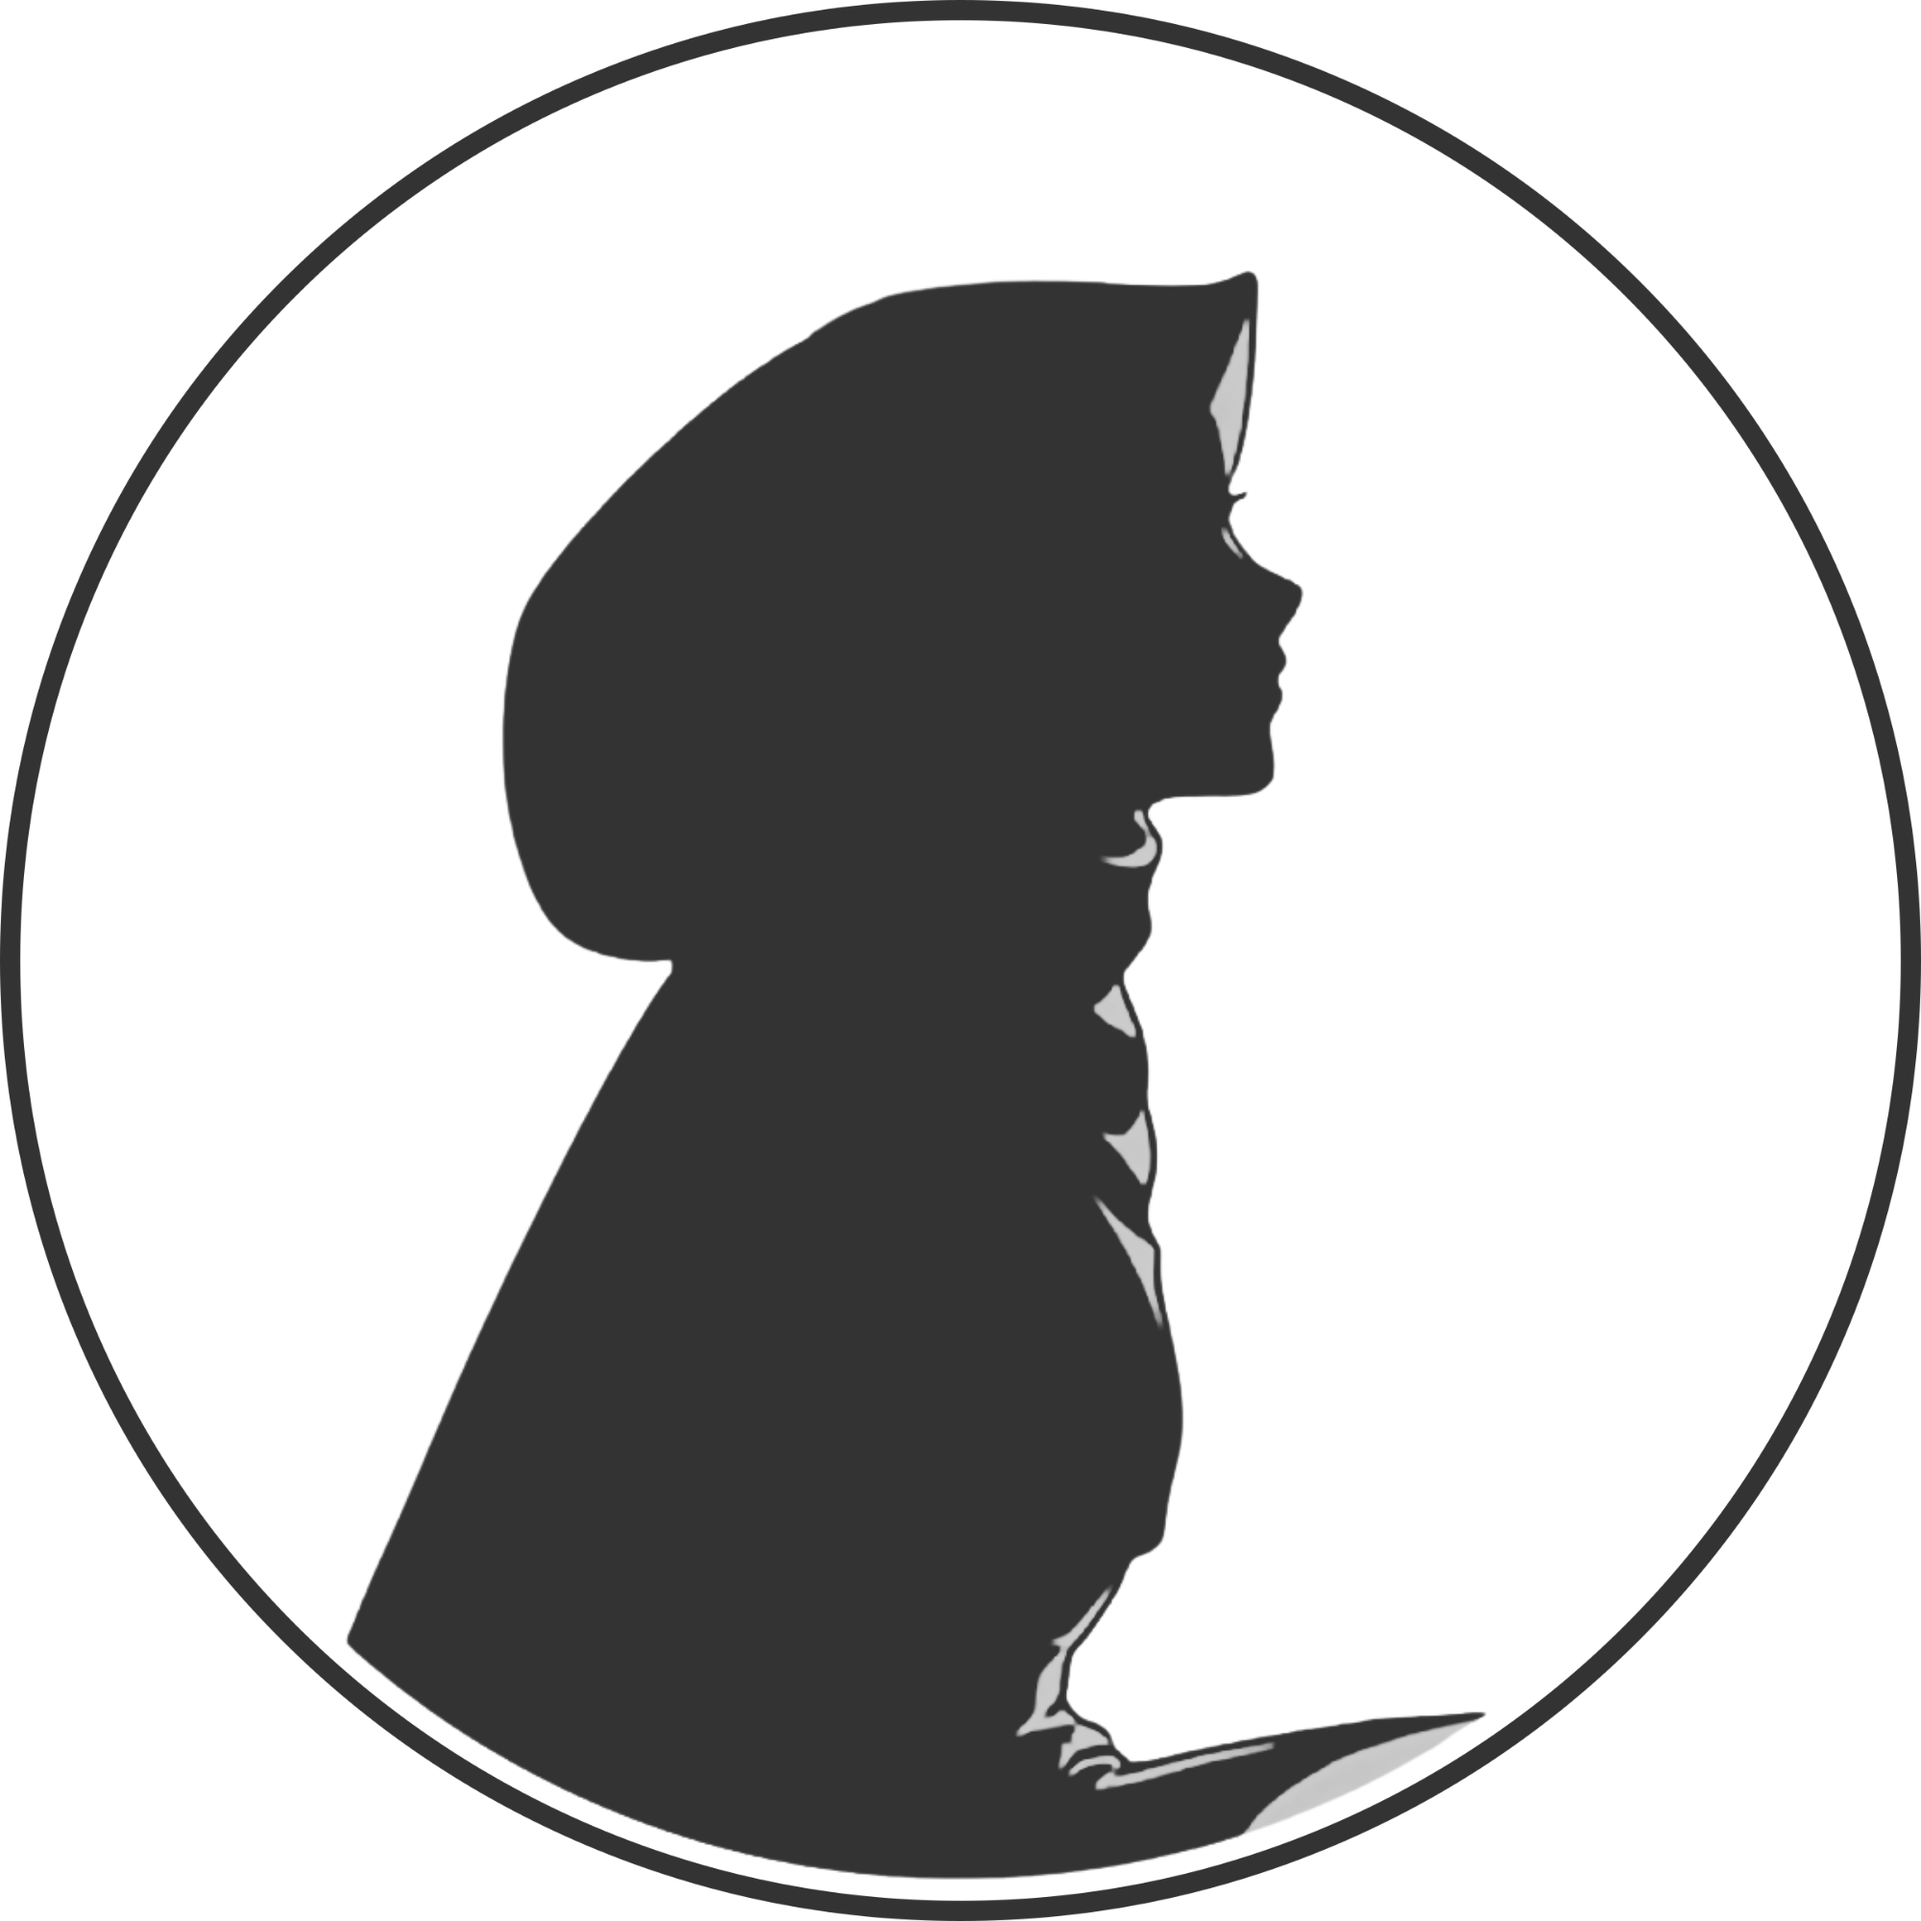
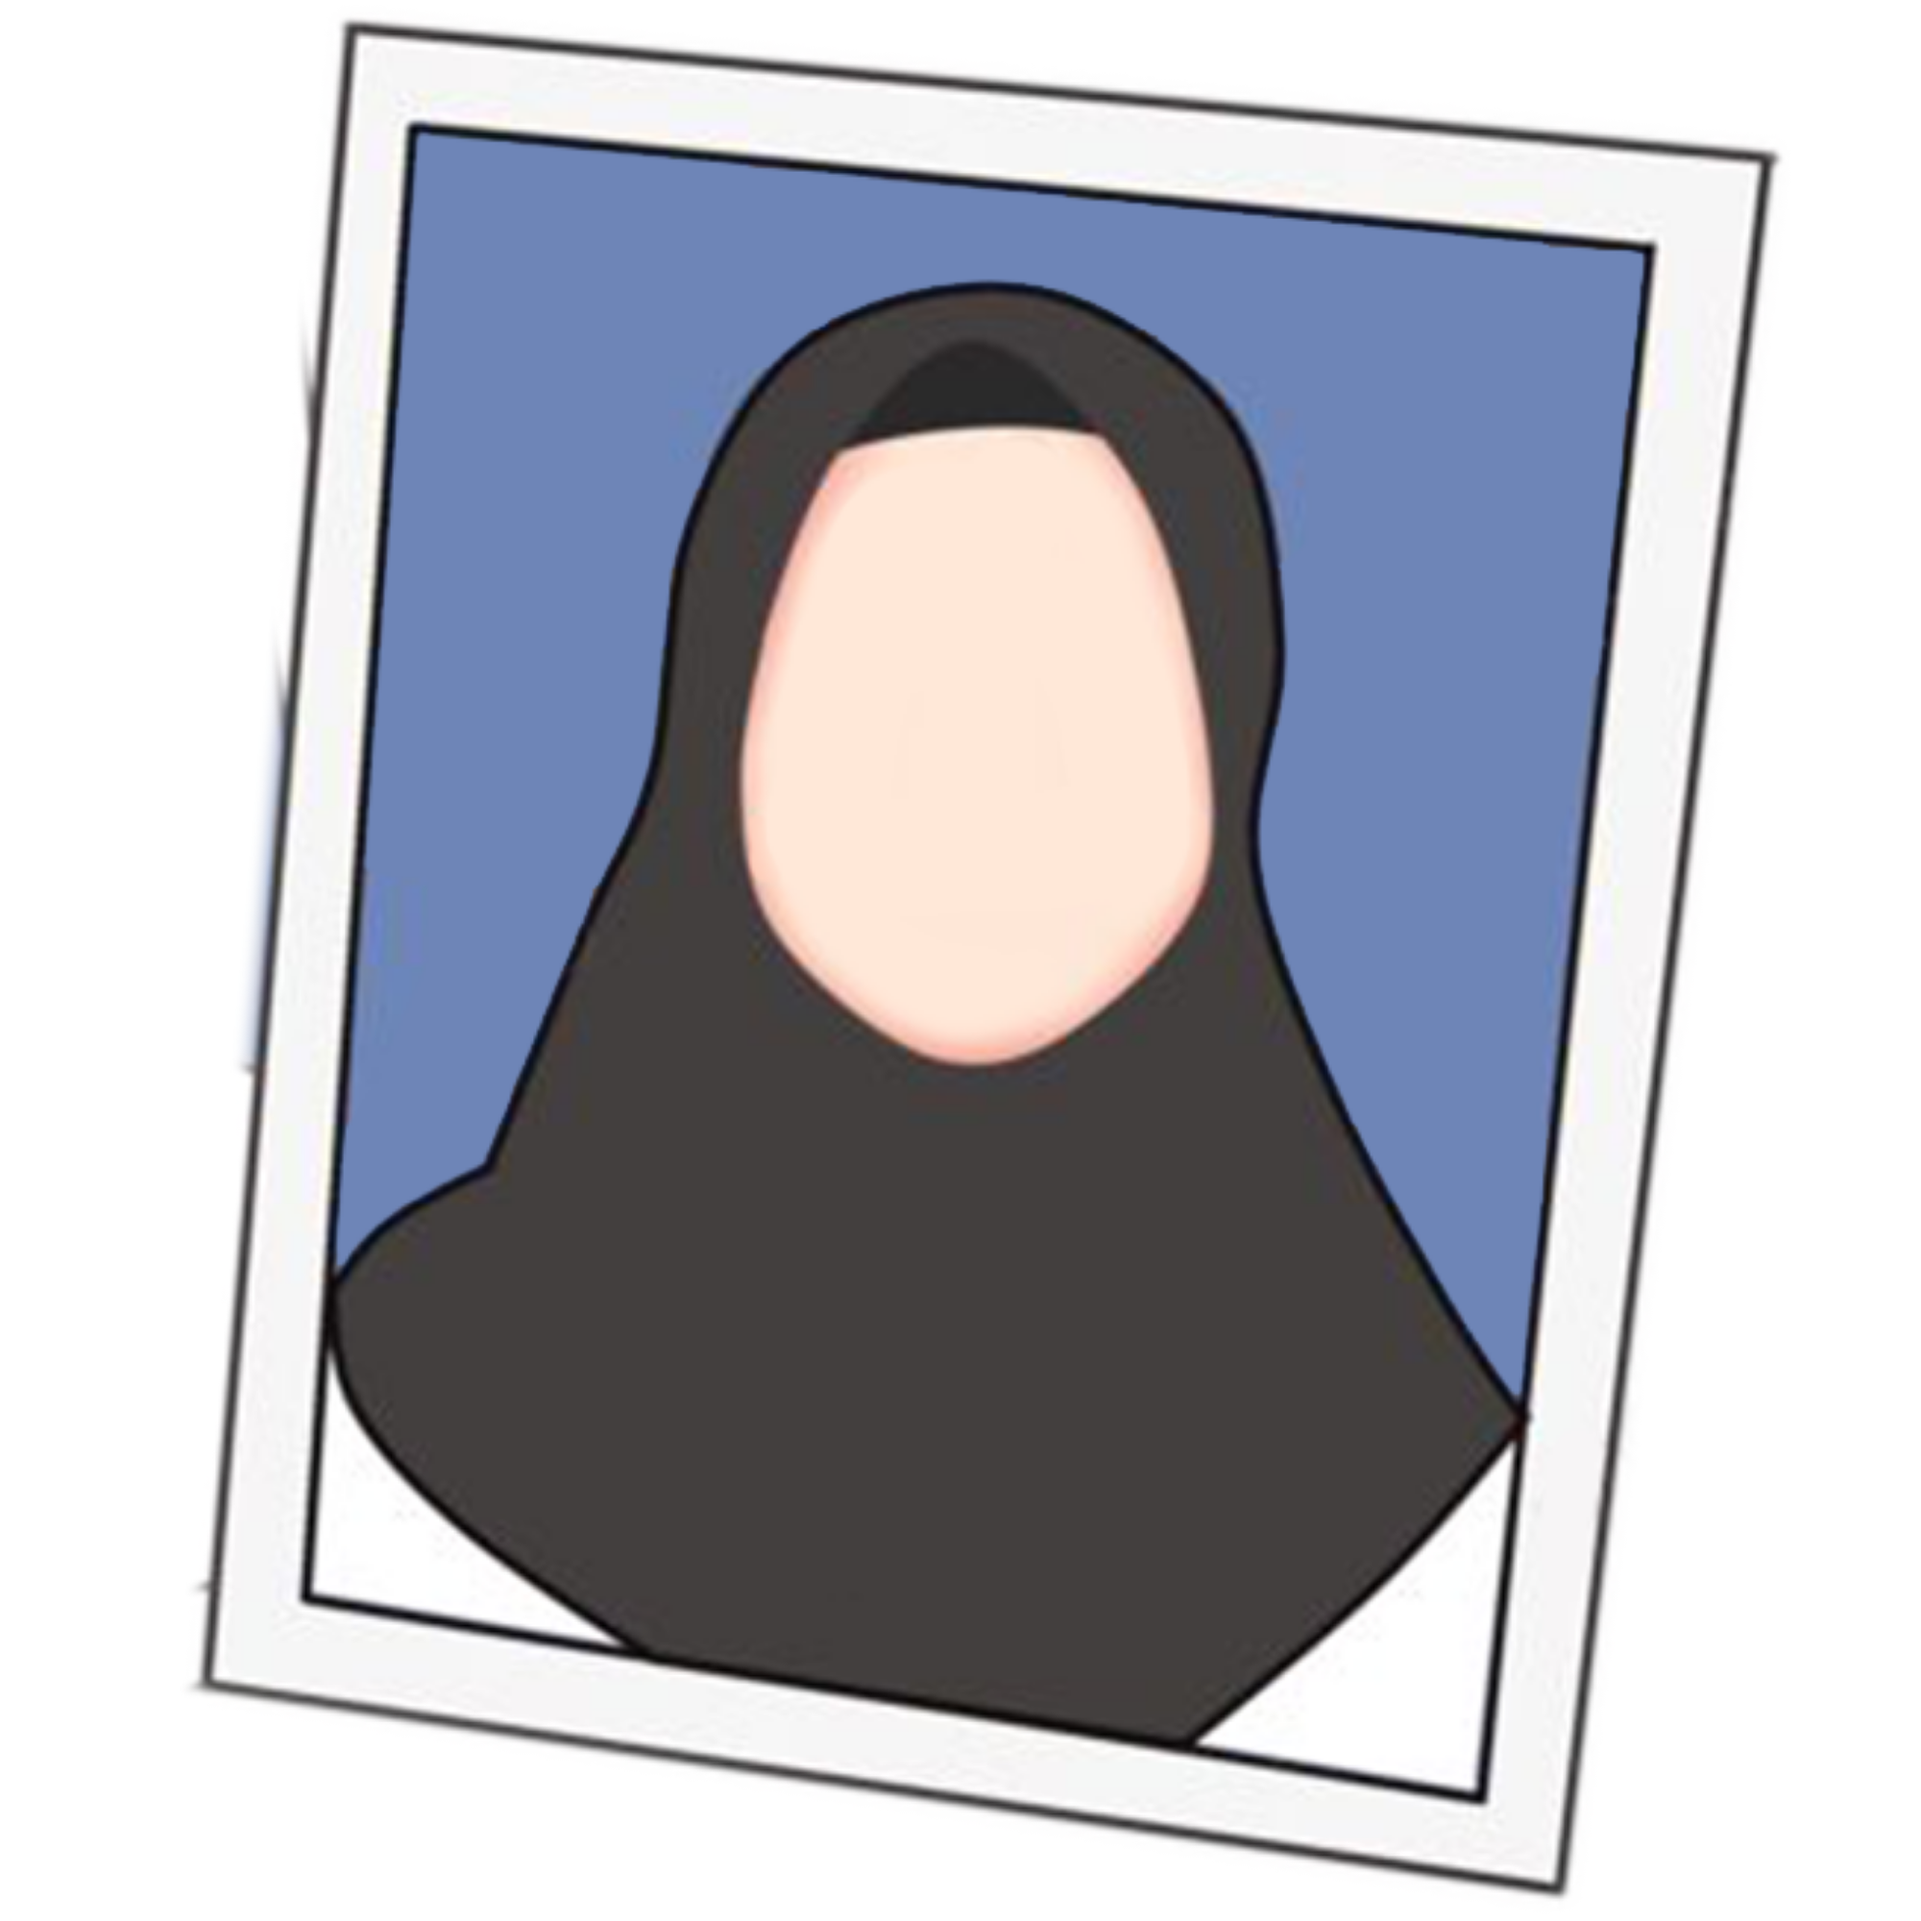
Update v.1.2.9

diff --git a/app/selviana-dan-eko/page.tsx b/app/selviana-dan-eko/page.tsx
@@ -305,8 +305,23 @@ function WeddingContent() {
             />
 
             {/* Asset Ornamen Utama (Gunungan Tengah) */}
+            {/* Asset Ornamen Utama (Gunungan Tengah) */}
             <div className="absolute inset-0 max-w-[48rem] mx-auto pointer-events-none z-10">
-              <motion.img src="/images/main-front.png" alt="main-front" initial={{ x: "-50%", scale: 1, opacity: 1 }} animate={{ x: "-50%", scale: 1, opacity: 1 }} exit={{ x: "-50%", scale: 2.5, opacity: 0, filter: "blur(10px)", transition: { duration: 1.2, ease: "easeInOut" } }} className="absolute top-[18%] md:top-[15%] left-1/2 w-[75vw] sm:w-[60vw] md:w-[22rem] lg:w-[26rem] object-contain" />
+              <motion.img 
+                src="/images/main-front.png" 
+                alt="main-front" 
+                // 1. OPACITY DITURUNKAN: Ubah angka 0.85 ini jika ingin lebih pudar (misal 0.7 atau 0.6)
+                initial={{ x: "-50%", scale: 1, opacity: 0.85 }} 
+                animate={{ x: "-50%", scale: 1, opacity: 0.85 }} 
+                exit={{ x: "-50%", scale: 2.5, opacity: 0, filter: "blur(10px)", transition: { duration: 1.2, ease: "easeInOut" } }} 
+                className="absolute top-[18%] md:top-[15%] left-1/2 w-[75vw] sm:w-[60vw] md:w-[22rem] lg:w-[26rem] object-contain" 
+                
+                // 2. FADE DI BAWAH GAMBAR: Menggunakan masking gradient agar bawahnya memudar halus
+                style={{ 
+                  WebkitMaskImage: 'linear-gradient(to bottom, rgba(0,0,0,1) 60%, rgba(0,0,0,0) 100%)',
+                  maskImage: 'linear-gradient(to bottom, rgba(0,0,0,1) 60%, rgba(0,0,0,0) 100%)' 
+                }}
+              />
             </div>
             
             {/* Teks Undangan & Tombol Buka */}
@@ -371,8 +386,8 @@ function WeddingContent() {
           </ZoomIn>
         </section>
 
-        {/* COUPLE SECTION - Full Screen */}
-        <section id="couple" className="relative min-h-screen flex flex-col items-center justify-center px-4 md:px-6 py-20">
+        {/* COUPLE SECTION - Mengalir di HP, Full-Screen rapi di PC */}
+        <section id="couple" className="relative py-20 px-4 md:min-h-screen md:flex md:flex-col md:items-center md:justify-center md:py-0">
           <FadeUp>
             <div className="text-center mb-6 md:mb-16">
               <h3 className="font-script text-2xl md:text-4xl text-slate-500 mb-1">The</h3>
@@ -382,31 +397,33 @@ function WeddingContent() {
           
           <div className="max-w-4xl mx-auto bg-white/70 backdrop-blur-md p-4 sm:p-6 md:p-16 border border-slate-200 shadow-xl rounded-2xl w-full">
             <div className="flex flex-col md:flex-row items-center justify-between gap-1 sm:gap-4 md:gap-10">
+              
               <SlideInLeft delay={0.2} className="flex-1 flex flex-col items-center text-center w-full">
-                <img src="/images/bride.png" alt="Bride Silhouette" className="w-20 h-20 sm:w-24 sm:h-24 md:w-40 md:h-40 object-cover rounded-full mb-2 md:mb-6 border-2 md:border-4 border-white shadow-md bg-white" />
+                {/* Lingkaran dihapus, ukuran sedikit diperbesar (w-28/w-48), dan diganti jadi bride.jpg */}
+                <img src="/images/bride.png" alt="Bride" className="w-24 h-24 sm:w-28 sm:h-28 md:w-48 md:h-48 object-contain mb-3 md:mb-6 drop-shadow-xl hover:scale-105 transition-transform duration-300" />
                 <h4 className="font-serif text-xl sm:text-2xl md:text-4xl font-bold mb-1 md:mb-3 text-slate-800 leading-tight">{weddingData.bride.name}</h4>
                 <p className="text-[10px] sm:text-xs md:text-base text-slate-600 mb-3 md:mb-6 italic leading-relaxed">{weddingData.bride.parents}</p>
-                {/* Tombol IG Otomatis */}
                 <a href={weddingData.bride.instagram || "#"} target="_blank" rel="noreferrer" className="flex items-center justify-center gap-1.5 md:gap-2 px-4 py-1.5 md:px-6 md:py-2 bg-slate-800 text-white hover:bg-slate-700 hover:scale-105 transition-all rounded-full text-[9px] md:text-xs tracking-wider shadow-md lowercase max-w-[90%] md:max-w-full overflow-hidden">
                   <svg className="w-3 h-3 md:w-4 md:h-4 flex-shrink-0" viewBox="0 0 24 24" fill="none" stroke="currentColor" strokeWidth="2" strokeLinecap="round" strokeLinejoin="round"><rect width="20" height="20" x="2" y="2" rx="5" ry="5"/><path d="M16 11.37A4 4 0 1 1 12.63 8 4 4 0 0 1 16 11.37z"/><line x1="17.5" x2="17.51" y1="6.5" y2="6.5"/></svg> 
                   <span className="truncate">{getIgUsername(weddingData.bride.instagram)}</span>
                 </a>
               </SlideInLeft>
               
-              <ZoomIn delay={0.4} className="flex flex-col items-center justify-center my-1 md:my-0">
+              <ZoomIn delay={0.4} className="flex flex-col items-center justify-center my-3 md:my-0">
                 <span className="font-script text-3xl md:text-6xl text-slate-400">&</span>
               </ZoomIn>
 
               <SlideInRight delay={0.6} className="flex-1 flex flex-col items-center text-center w-full">
-                <img src="/images/groom.png" alt="Groom Silhouette" className="w-20 h-20 sm:w-24 sm:h-24 md:w-40 md:h-40 object-cover rounded-full mb-2 md:mb-6 border-2 md:border-4 border-white shadow-md bg-white" />
+                {/* Lingkaran dihapus, ukuran sedikit diperbesar (w-28/w-48), dan diganti jadi groom.jpg */}
+                <img src="/images/groom.png" alt="Groom" className="w-24 h-24 sm:w-28 sm:h-28 md:w-48 md:h-48 object-contain mb-3 md:mb-6 drop-shadow-xl hover:scale-105 transition-transform duration-300" />
                 <h4 className="font-serif text-xl sm:text-2xl md:text-4xl font-bold mb-1 md:mb-3 text-slate-800 leading-tight">{weddingData.groom.name}</h4>
                 <p className="text-[10px] sm:text-xs md:text-base text-slate-600 mb-3 md:mb-6 italic leading-relaxed">{weddingData.groom.parents}</p>
-                {/* Tombol IG Otomatis */}
                 <a href={weddingData.groom.instagram || "#"} target="_blank" rel="noreferrer" className="flex items-center justify-center gap-1.5 md:gap-2 px-4 py-1.5 md:px-6 md:py-2 bg-slate-800 text-white hover:bg-slate-700 hover:scale-105 transition-all rounded-full text-[9px] md:text-xs tracking-wider shadow-md lowercase max-w-[90%] md:max-w-full overflow-hidden">
                   <svg className="w-3 h-3 md:w-4 md:h-4 flex-shrink-0" viewBox="0 0 24 24" fill="none" stroke="currentColor" strokeWidth="2" strokeLinecap="round" strokeLinejoin="round"><rect width="20" height="20" x="2" y="2" rx="5" ry="5"/><path d="M16 11.37A4 4 0 1 1 12.63 8 4 4 0 0 1 16 11.37z"/><line x1="17.5" x2="17.51" y1="6.5" y2="6.5"/></svg> 
                   <span className="truncate">{getIgUsername(weddingData.groom.instagram)}</span>
                 </a>
               </SlideInRight>
+              
             </div>
           </div>
         </section>
